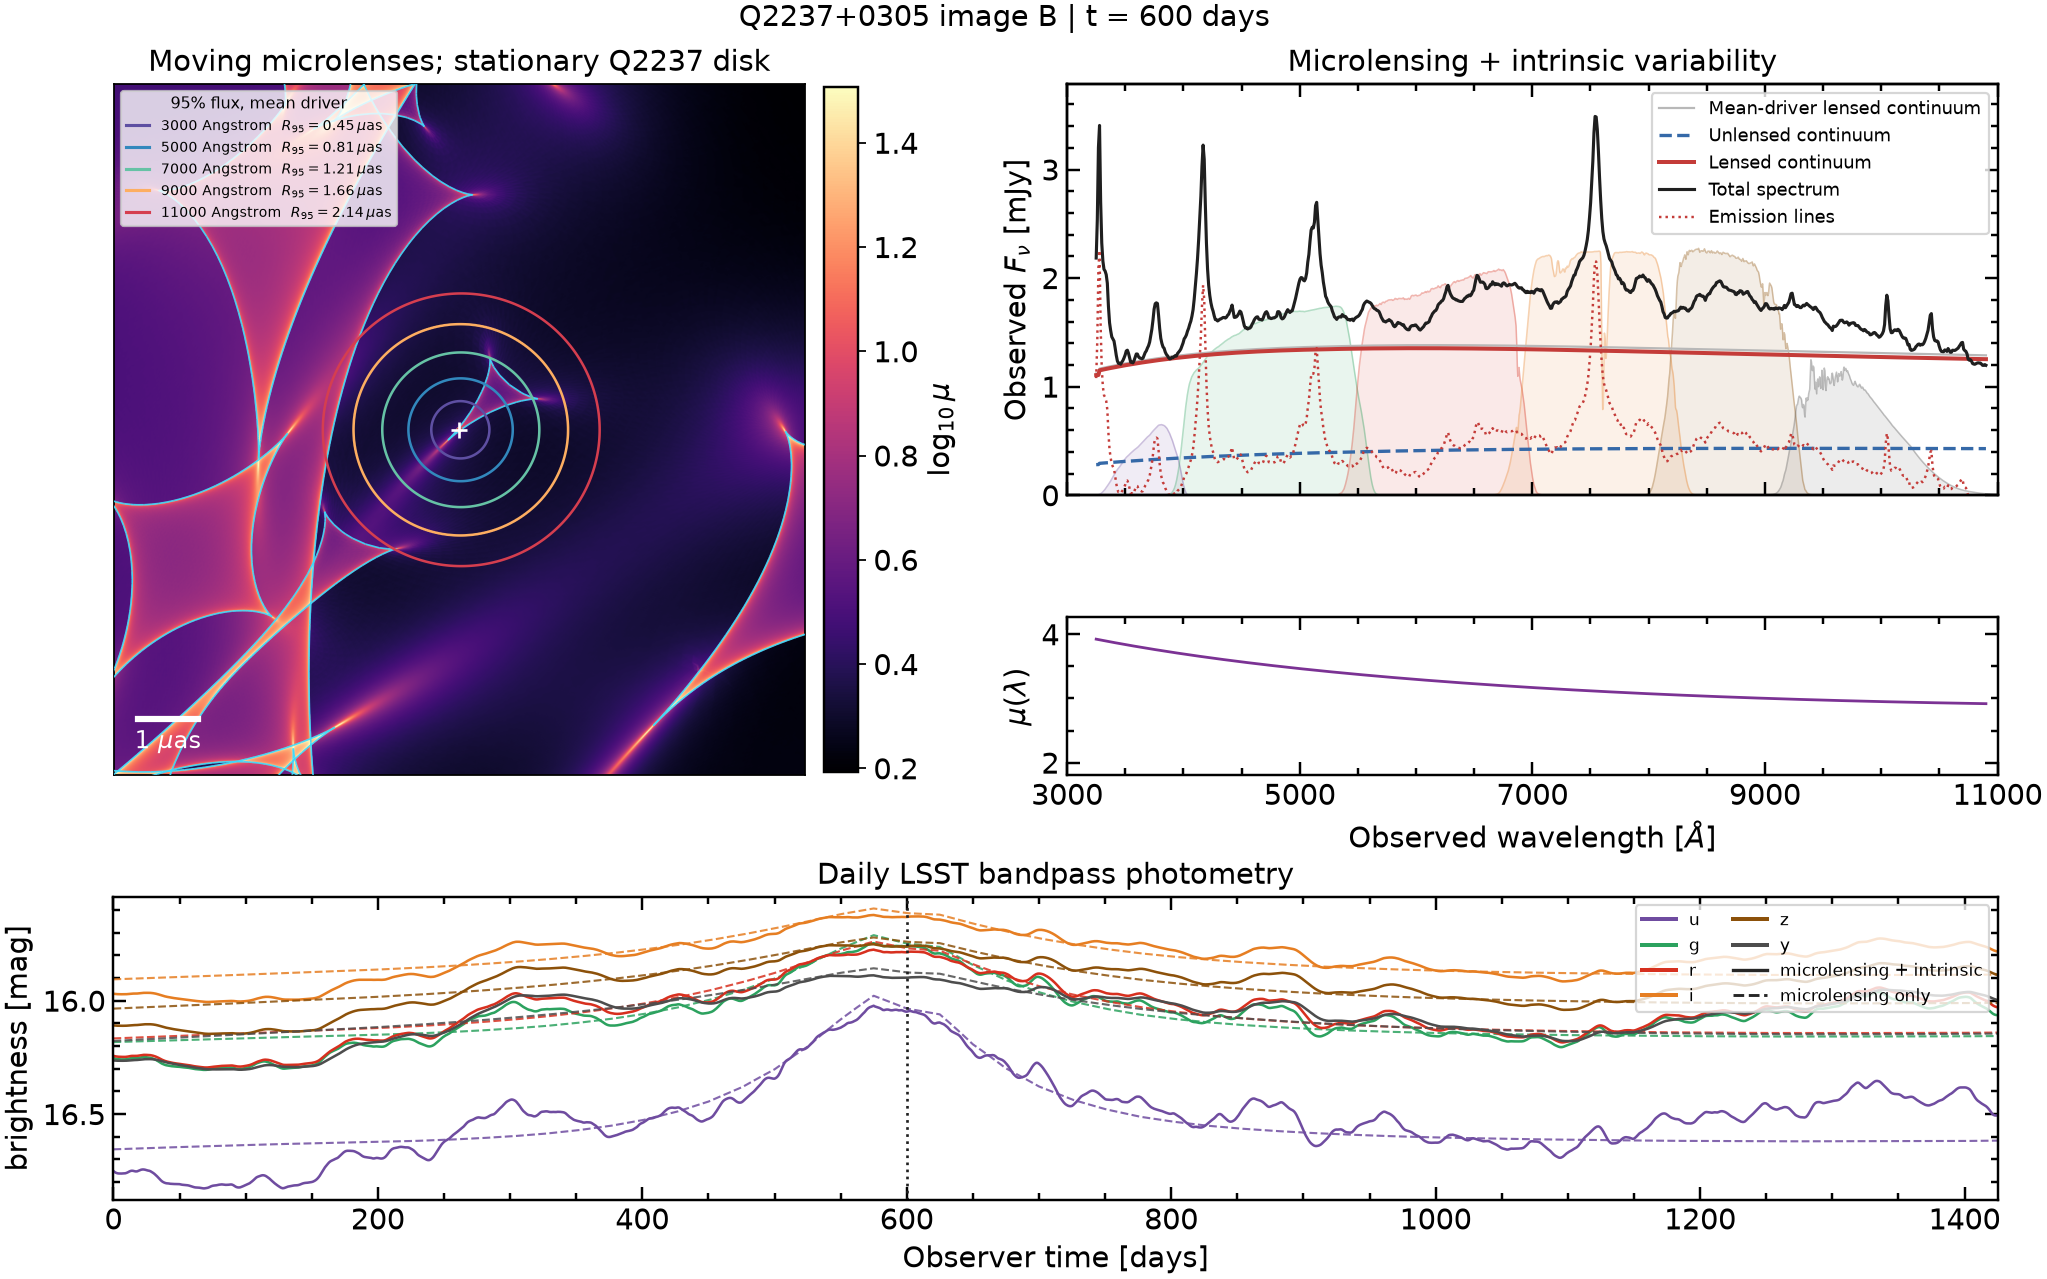
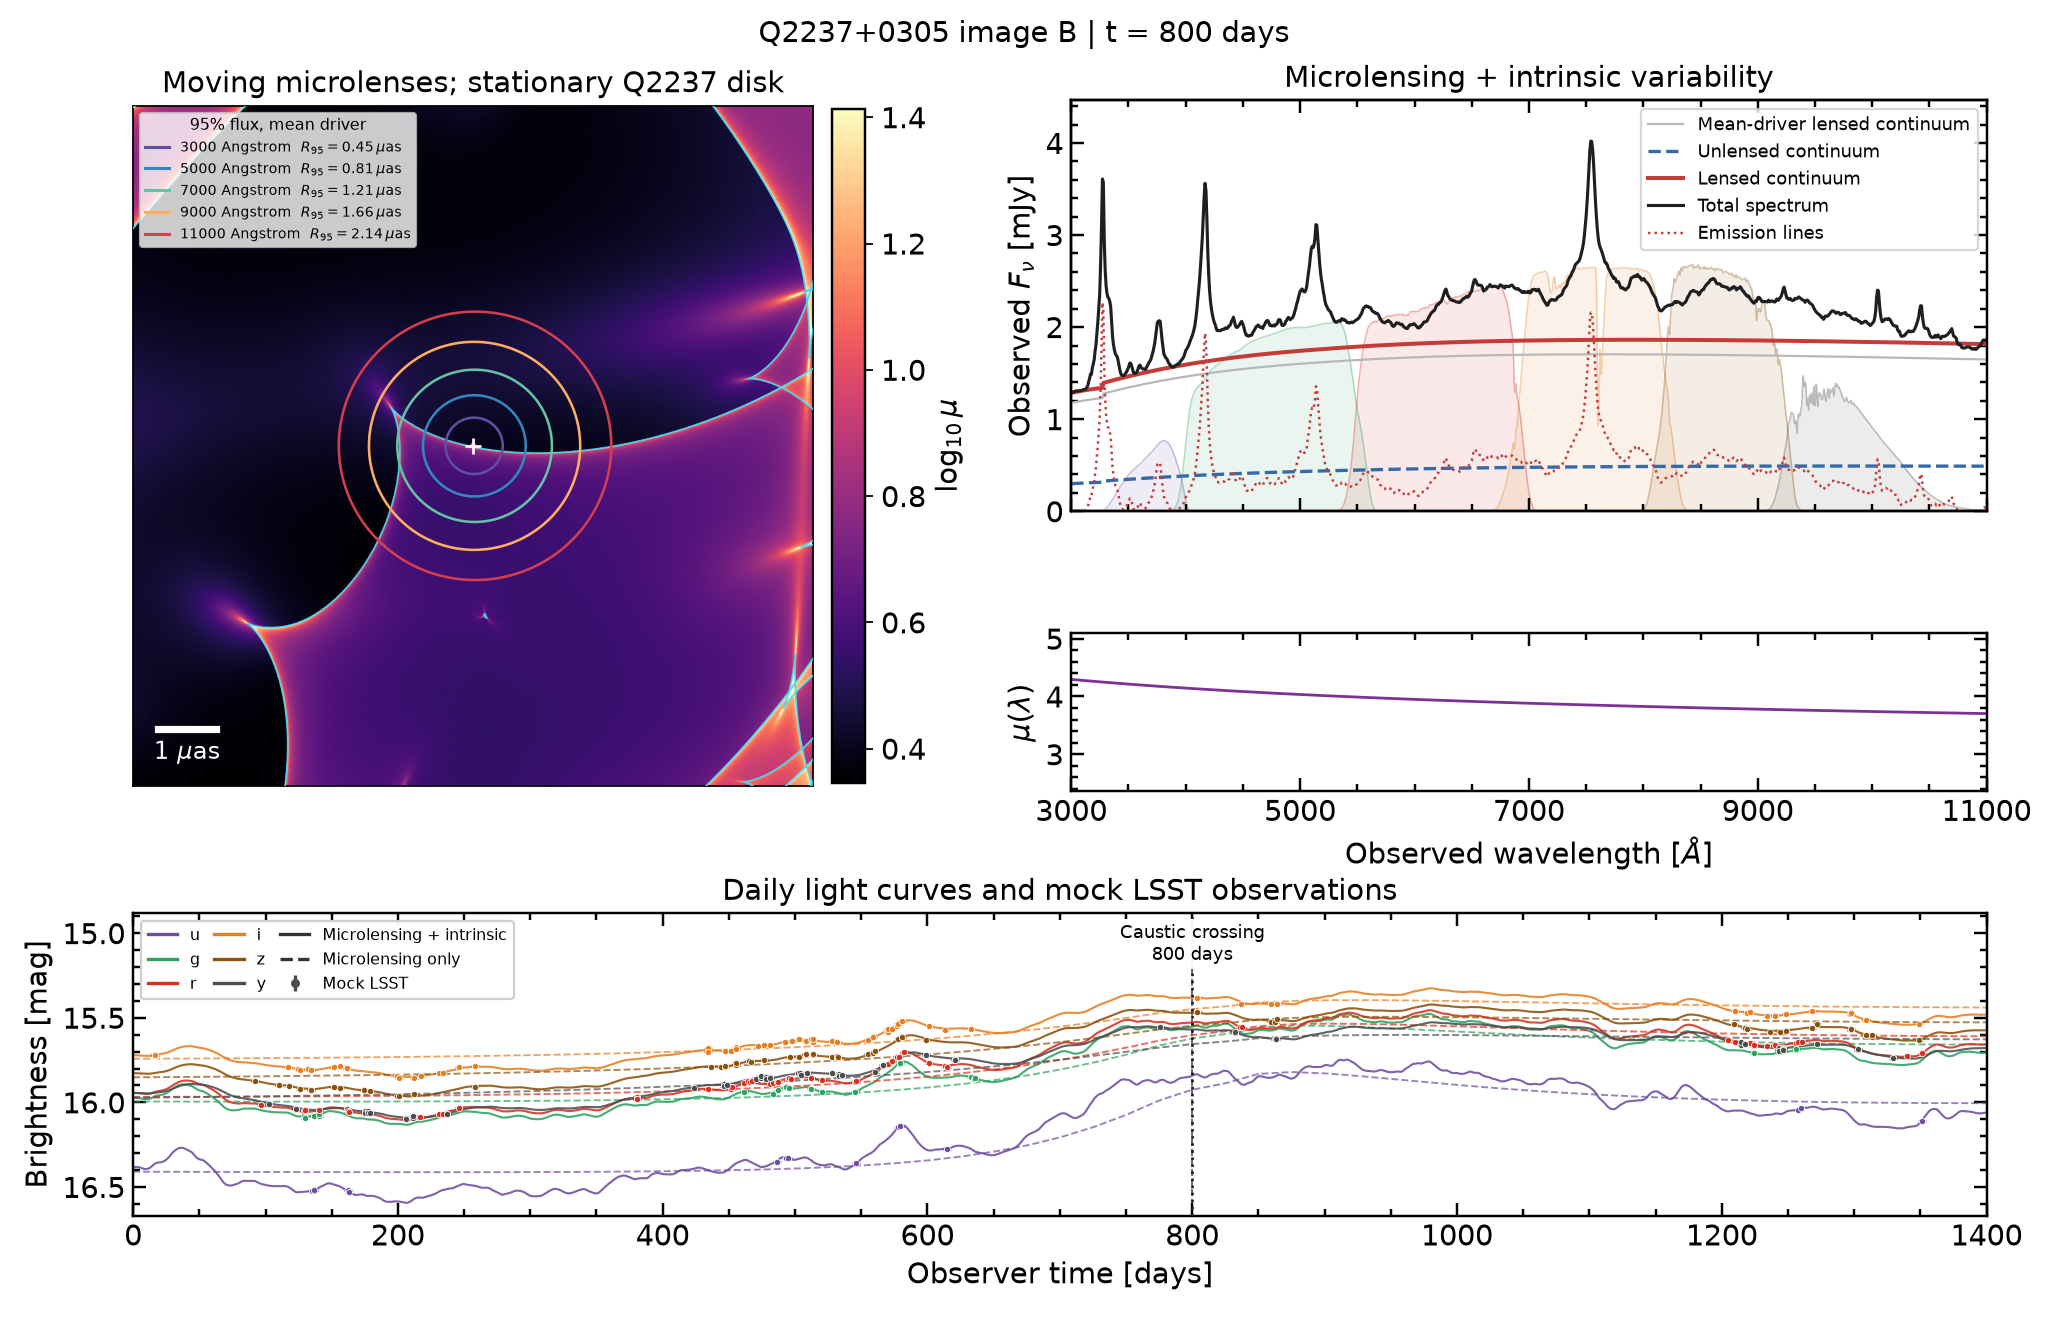
Publish Rubin research section and updated microlensing animations

Changed region(s): [[0.0308, 0.0, 0.9849, 0.6099], [0.0, 0.4574, 1.0, 1.0]]

diff --git a/index.html b/index.html
@@ -13,9 +13,9 @@
   <meta property="og:url" content="https://jfagin.github.io/">
   <link rel="canonical" href="https://jfagin.github.io/">
   <link rel="icon" href="assets/favicon.svg" type="image/svg+xml">
-  <link rel="stylesheet" href="styles.css">
+  <link rel="stylesheet" href="styles.css?v=20261010-rubin">
   <script src="script.js" defer></script>
-  <title>Joshua Fagin | Astrophysics & Machine Learning</title>
+  <title>Joshua Fagin | Astrophysics &amp; Machine Learning</title>
   <script type="application/ld+json">
   {
     "@context": "https://schema.org",
@@ -38,6 +38,7 @@
       <button class="menu-toggle" type="button" aria-expanded="false" aria-controls="site-nav" hidden>Menu <span aria-hidden="true">+</span></button>
       <nav id="site-nav" aria-label="Main navigation">
         <a href="#research">Research</a>
+        <a href="#rubin">Rubin / LSST</a>
         <a href="#publications">Publications</a>
         <a href="#software">Software</a>
         <a href="#about">About</a>
@@ -53,7 +54,7 @@
         <h1 id="hero-title">Joshua Fagin, Ph.D.</h1>
         <p class="position">Postdoctoral Researcher<br><span>Stony Brook University</span></p>
         <p class="hero-intro">I use the changing light of quasars to study black holes, the galaxies that lens them, and the expansion of the Universe.</p>
-        <p class="hero-detail">Working with Simon Birrer, I combine dynamical microlensing simulations with machine learning to turn irregular light curves into measurements and event forecasts.</p>
+        <p class="hero-detail">Working with Simon Birrer, I combine dynamical microlensing simulations with machine learning to turn irregular light curves into measurements and event forecasts for <a href="#rubin">Rubin Observatory’s Legacy Survey of Space and Time</a>.</p>
         <div class="hero-actions">
           <a class="button button-primary" href="#research">Explore my research <span aria-hidden="true">↘</span></a>
           <a class="text-link" href="mailto:joshua.fagin@stonybrook.edu">Get in touch <span aria-hidden="true">↗</span></a>
@@ -77,6 +78,53 @@
           <p>I build physical simulators and inference methods to connect time-domain observations to the systems that produce them.</p>
         </div>
 
+        <article class="real-lens-feature" aria-labelledby="real-lens-title">
+          <figure class="science-figure real-lens-figure">
+            <a href="assets/rx-j1131-hst.png" class="figure-link" data-figure data-title="RX J1131−1231: one quasar, four images" data-caption="Hubble Space Telescope observations of RX J1131−1231. Four images of the same quasar surround the foreground lens galaxy, with the quasar's host galaxy stretched into arcs. Image: ESA/Hubble, NASA, Suyu et al., CC BY 4.0. Labels and circles added for my proposal.">
+              <img src="assets/rx-j1131-hst.png" alt="Labeled Hubble image of RX J1131−1231 showing four quasar images, the central foreground lens galaxy, and the lensed host-galaxy arcs" width="418" height="418" loading="lazy">
+              <span class="enlarge-label">View HST image <span aria-hidden="true">↗</span></span>
+            </a>
+            <figcaption>Observed with Hubble, not a simulation. <a href="https://esahubble.org/images/heic1702d/">ESA/Hubble, NASA, Suyu et al.</a> · <a href="https://creativecommons.org/licenses/by/4.0/">CC BY 4.0</a>. Labels added.</figcaption>
+          </figure>
+          <div class="feature-copy">
+            <p class="eyebrow">A real gravitational lens</p>
+            <h3 id="real-lens-title">One quasar.<br>Four views of a changing disk.</h3>
+            <p>In RX J1131−1231, a foreground galaxy bends the light of a distant quasar into four images. Each follows a different path, so the same intrinsic variations arrive at different times.</p>
+            <p>Stars in the lens galaxy add a different microlensing signal to each image. Separating these signals lets us study accretion disks and compact objects while measuring the time delays that probe cosmic expansion.</p>
+          </div>
+        </article>
+
+      </div>
+    </section>
+
+    <section class="rubin-section section" id="rubin" aria-labelledby="rubin-title">
+      <div class="container">
+        <div class="rubin-feature">
+          <div class="feature-copy">
+            <p class="eyebrow">Rubin Observatory / LSST</p>
+            <h2 id="rubin-title">A decade of light.<br>New ways to read it.</h2>
+            <p>The Legacy Survey of Space and Time repeatedly images the southern sky in six bands. For quasars, that means long, multicolor records of accretion and microlensing, with irregular sampling and seasonal gaps.</p>
+            <p>I am developing latent-SDE models trained on physical simulations to make use of these light curves as they grow. My goal is to connect survey monitoring to measurements of disk structure, microlens populations, and cosmological time delays, while guiding follow-up of the most informative events.</p>
+            <a class="text-link" href="https://rubinobservatory.org/explore/how-rubin-works/lsst">About Rubin’s survey <span aria-hidden="true">↗</span></a>
+          </div>
+          <figure class="science-figure rubin-photo">
+            <a href="assets/rubin-observatory.jpg" class="figure-link" data-figure data-title="Vera C. Rubin Observatory" data-caption="Rubin Observatory on Cerro Pachón, Chile, at twilight. Archival observatory photograph released in 2023, not a rendering. Credit: RubinObs/NOIRLab/NSF/AURA, CC BY 4.0. Original photograph unchanged.">
+              <img src="assets/rubin-observatory.jpg" alt="Vera C. Rubin Observatory on Cerro Pachón beneath a blue and orange twilight sky" width="4928" height="3264" loading="lazy">
+              <span class="enlarge-label">View observatory <span aria-hidden="true">↗</span></span>
+            </a>
+            <figcaption>Rubin Observatory on Cerro Pachón, Chile. <a href="https://noirlab.edu/public/images/noirlab2327c/">RubinObs/NOIRLab/NSF/AURA</a> · <a href="https://creativecommons.org/licenses/by/4.0/">CC BY 4.0</a>. Archival photograph, 2023.</figcaption>
+          </figure>
+        </div>
+        <div class="rubin-goals" aria-label="My research goals for Rubin light curves">
+          <article><h3>Reconstruct</h3><p>Recover light curves through gaps and separate shared intrinsic variability from image-specific microlensing.</p></article>
+          <article><h3>Infer</h3><p>Use the full time series to constrain physical parameters and their uncertainties.</p></article>
+          <article><h3>Identify &amp; forecast</h3><p>Find past caustic crossings and predict future high-magnification events for multiband and spectroscopic follow-up.</p></article>
+        </div>
+      </div>
+    </section>
+
+    <section class="research section research-details" aria-label="Microlensing and machine-learning methods">
+      <div class="container">
         <div class="research-overview">
           <figure class="science-figure overview-figure">
             <a href="assets/lensing-and-reverberation.png" class="figure-link" data-figure data-title="Reverberation and gravitational microlensing" data-caption="Physical Q2237+0305 image-A simulation. Intrinsic disk variability and dynamical microlensing combine to produce the observed light curve. The plotted observations are simulated Rubin visits, not real data.">
@@ -134,7 +182,7 @@
       <div class="container">
         <div class="section-heading">
           <div><p class="eyebrow">The science in motion</p><h2 id="motion-title">A magnifying glass that moves.</h2></div>
-          <p>These physical simulations show how evolving caustics change a quasar’s spectrum and reverberation response. Play either animation to follow an event.</p>
+          <p>These physical simulations show how evolving caustics change a quasar’s spectrum and reverberation response. Choose one of the two animations below, then select Play animation.</p>
         </div>
         <div class="animation-tabs" role="group" aria-label="Choose a simulation" hidden>
           <button type="button" class="tab-button" aria-pressed="true" data-animation-tab="transfer">Time delays &amp; transfer functions</button>
@@ -142,25 +190,24 @@
         </div>
         <figure class="animation-figure" id="animation-transfer" data-animation-panel="transfer">
           <div class="animation-surface">
-            <img id="transfer-image" src="assets/microlensing-transfer.png" data-still="assets/microlensing-transfer.png" data-animation="assets/microlensing-transfer.gif" alt="Simulated Q2237 image-B magnification map and six-band transfer functions, showing shifts in mean response delays" width="1972" height="789" loading="lazy">
+            <img id="transfer-image" src="assets/microlensing-transfer.png?v=seed42-lsst3" data-still="assets/microlensing-transfer.png?v=seed42-lsst3" data-animation="assets/microlensing-transfer.gif?v=seed42-lsst3" alt="Simulated Q2237 image-B magnification map, six-band transfer functions and daily light curves, with mock LSST observations and one labeled caustic-crossing time" width="2304" height="1440" loading="lazy">
           </div>
           <div class="animation-bottom">
-            <figcaption><strong>Microlensing changes more than brightness.</strong> As a caustic crosses the disk, it changes the weighting of response delays. Arrows mark shifts in the mean lag relative to the unmagnified response. Simulated Q2237+0305 image B.</figcaption>
+            <figcaption><strong>Microlensing changes more than brightness.</strong> As a caustic crosses the disk, it changes the weighting of response delays. Arrows mark shifts in the mean lag relative to the unmagnified response. The daily light curves include mock LSST observations with capped error bars and a marked caustic-crossing time. Simulated Q2237+0305 image B.</figcaption>
             <button class="button button-play" type="button" data-play="transfer-image" aria-controls="transfer-image" aria-pressed="false" hidden><span aria-hidden="true">▶</span> Play animation</button>
           </div>
-          <noscript><p><a href="assets/microlensing-transfer.gif">Open transfer-function animation (6 MB)</a></p></noscript>
+          <noscript><p><a href="assets/microlensing-transfer.gif?v=seed42-lsst3">Open transfer-function animation (7.4 MB)</a></p></noscript>
         </figure>
         <figure class="animation-figure" id="animation-spectrum" data-animation-panel="spectrum">
           <div class="animation-surface">
-            <img id="spectrum-image" src="assets/microlensing-spectrum.png" data-still="assets/microlensing-spectrum.png" data-animation="assets/microlensing-spectrum.gif" alt="Simulated moving microlensing map, evolving quasar spectrum, wavelength-dependent magnification, and six-band daily light curves" width="2047" height="1279" loading="lazy">
+            <img id="spectrum-image" src="assets/microlensing-spectrum.png?v=seed1003-lsst2" data-still="assets/microlensing-spectrum.png?v=seed1003-lsst2" data-animation="assets/microlensing-spectrum.gif?v=seed1003-lsst2" alt="Simulated moving microlensing map, evolving quasar spectrum, wavelength-dependent magnification, and six-band daily light curves with mock LSST observations and a labeled caustic crossing" width="2048" height="1336" loading="lazy">
           </div>
           <div class="animation-bottom">
-            <figcaption><strong>One crossing, many wavelengths.</strong> A simulated magnification pattern, evolving disk continuum, empirical emission lines, and Rubin bandpasses connect the source physics to multiband light curves. Simulated Q2237+0305 image B.</figcaption>
+            <figcaption><strong>One crossing, many wavelengths.</strong> A simulated magnification pattern, evolving disk continuum, empirical emission lines, and Rubin bandpasses connect the source physics to daily multiband light curves. Points with capped error bars are mock LSST observations; the caustic-crossing time is marked. Simulated Q2237+0305 image B.</figcaption>
             <button class="button button-play" type="button" data-play="spectrum-image" aria-controls="spectrum-image" aria-pressed="false" hidden><span aria-hidden="true">▶</span> Play animation</button>
           </div>
-          <noscript><p><a href="assets/microlensing-spectrum.gif">Open spectral animation (10 MB)</a></p></noscript>
+          <noscript><p><a href="assets/microlensing-spectrum.gif?v=seed1003-lsst2">Open spectral animation (8.7 MB)</a></p></noscript>
         </figure>
-        <p class="animation-note">Animations load only when played. The two examples use different stellar realizations.</p>
         <p class="sr-only" id="animation-status" role="status"></p>
 
         <article class="follow-up-feature" id="follow-up" aria-labelledby="follow-up-title">
@@ -255,7 +302,7 @@
           </ol>
         </div>
         <div class="community">
-          <article><h3>Preparing for Rubin</h3><p>I co-lead a quasar-variability task force in the Rubin AGN Science Collaboration and participate in the Dark Energy and Strong Lensing Science Collaborations. I am also a member of the FutureLens Collaboration.</p><p>My research direction is to connect survey monitoring to calibrated parameter inference, light-curve reconstruction, and timely alerts for multiband and spectroscopic follow-up.</p></article>
+          <article><h3>Science collaborations</h3><p>I co-lead a quasar-variability task force in the Rubin AGN Science Collaboration and participate in the Dark Energy and Strong Lensing Science Collaborations. I am also a member of the FutureLens Collaboration.</p></article>
           <article><h3>Teaching</h3><p>I taught nine undergraduate physics laboratory sections at CUNY Lehman College in the Bronx, covering mechanics, electromagnetism, and physics of sound.</p><p>I develop open scientific-software tutorials and am interested in making time-series inference, GPU computing, and machine learning more accessible to astronomy students.</p></article>
           <article><h3>Across astronomy and AI</h3><p>My latent-SDE work received a spotlight presentation at the ICLR 2023 Physics for Machine Learning Workshop. I have presented research at astronomy and machine-learning meetings, including Rubin science-collaboration meetings.</p></article>
         </div>

diff --git a/styles.css b/styles.css
@@ -66,6 +66,19 @@ h1 { font-size: clamp(56px, 6.3vw, 83px); line-height: 1.12; letter-spacing: -3.
 .section-heading > p { max-width: 375px; color: var(--muted); font-size: 14px; }
 .section-heading > div:first-child { flex-shrink: 0; }
 .research-overview { display: grid; grid-template-columns: 1.35fr 1fr; align-items: start; gap: 65px; }
+.real-lens-feature { display: grid; grid-template-columns: 320px 1fr; align-items: center; gap: 65px; }
+.real-lens-feature .feature-copy { max-width: 615px; }
+.real-lens-feature .feature-copy h3 { font-size: 35px; }
+.real-lens-figure { max-width: 320px; }
+.rubin-section { border-bottom: 1px solid var(--line); }
+.rubin-feature { display: grid; grid-template-columns: 1fr 1.12fr; gap: 65px; align-items: center; }
+.rubin-feature h2 { margin-bottom: 23px; }
+.rubin-feature .text-link { margin-top: 23px; }
+.rubin-photo { align-self: center; }
+.rubin-goals { display: grid; grid-template-columns: repeat(3, 1fr); gap: 38px; margin-top: 43px; padding-top: 29px; border-top: 1px solid var(--line); }
+.rubin-goals article + article { padding-left: 30px; border-left: 1px solid var(--line); }
+.rubin-goals h3 { font-size: 18px; margin-bottom: 10px; }
+.rubin-goals p { font-size: 13px; color: var(--muted); }
 .science-figure { min-width: 0; }
 .science-figure img { width: 100%; }
 .figure-link { display: block; text-decoration: none; position: relative; background: white; }
@@ -186,6 +199,9 @@ body.dialog-open { overflow: hidden; }
   .section-heading { gap: 35px; }
   .section-heading > div:first-child { flex-shrink: 1; }
   .research-overview { gap: 35px; grid-template-columns: 1.1fr 1fr; }
+  .real-lens-feature { grid-template-columns: 280px 1fr; gap: 35px; }
+  .rubin-feature { gap: 35px; }
+  #site-nav { gap: 20px; }
   .model-feature { gap: 40px; }
   .about-grid, .contact-inner { gap: 50px; }
   .animation-bottom { gap: 30px; }
@@ -212,6 +228,12 @@ body.dialog-open { overflow: hidden; }
   .section-heading .section-links { margin-top: 25px; }
   .section-heading > .text-link { margin-top: 24px; }
   .research-overview { grid-template-columns: 1fr; gap: 37px; }
+  .real-lens-feature { grid-template-columns: 1fr; gap: 30px; }
+  .real-lens-figure { width: 100%; justify-self: center; }
+  .real-lens-feature .feature-copy h3 { font-size: 30px; }
+  .rubin-feature, .rubin-goals { grid-template-columns: 1fr; gap: 27px; }
+  .rubin-goals { margin-top: 30px; }
+  .rubin-goals article + article { border-left: 0; border-top: 1px solid var(--line); padding: 23px 0 0; }
   .research-topics article { padding-bottom: 21px; }
   .model-feature { grid-template-columns: 1fr; grid-template-areas: "copy" "reconstruction" "mass"; margin-top: 22px; gap: 26px; padding-top: 38px; }
   .feature-copy h3 { font-size: 30px; }
